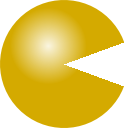
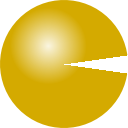
Smoothed Pacman Graphic

Changed region(s): [[0.5312, 0.3125, 1.0, 0.6875]]

diff --git a/Graphics/Construction 2/makepacman.py b/Graphics/Construction 2/makepacman.py
@@ -7,9 +7,9 @@ img = Image.open("pacman.png")
 for angle in [0,90,180,270]:
 	base = "pacman_"+str(angle)
 	img.save(base+"_0.png")
-	for gap in [1,2]:
+	for gap in range(1,6):
 		opimg = img.copy()
-		gapAngle = gap * 20
+		gapAngle = gap * 8
 		draw = ImageDraw.Draw(opimg)
 		draw.pieslice([(0,0),opimg.size],angle-gapAngle,angle+gapAngle,fill = (0,0,0,0))
 		opimg.save(base+"_"+str(gap)+".png")
